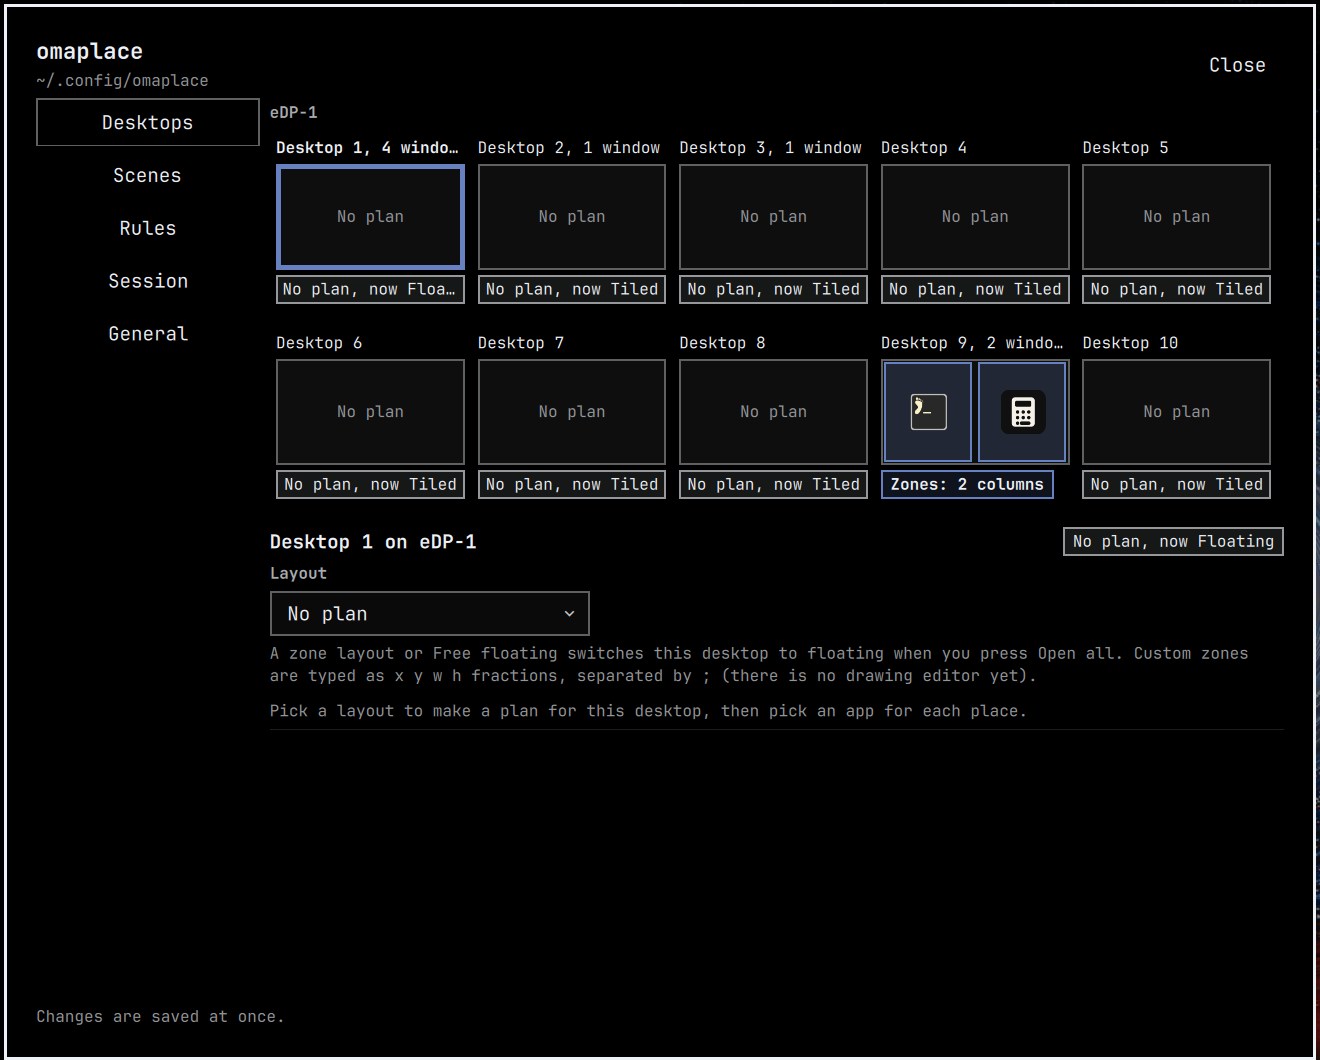
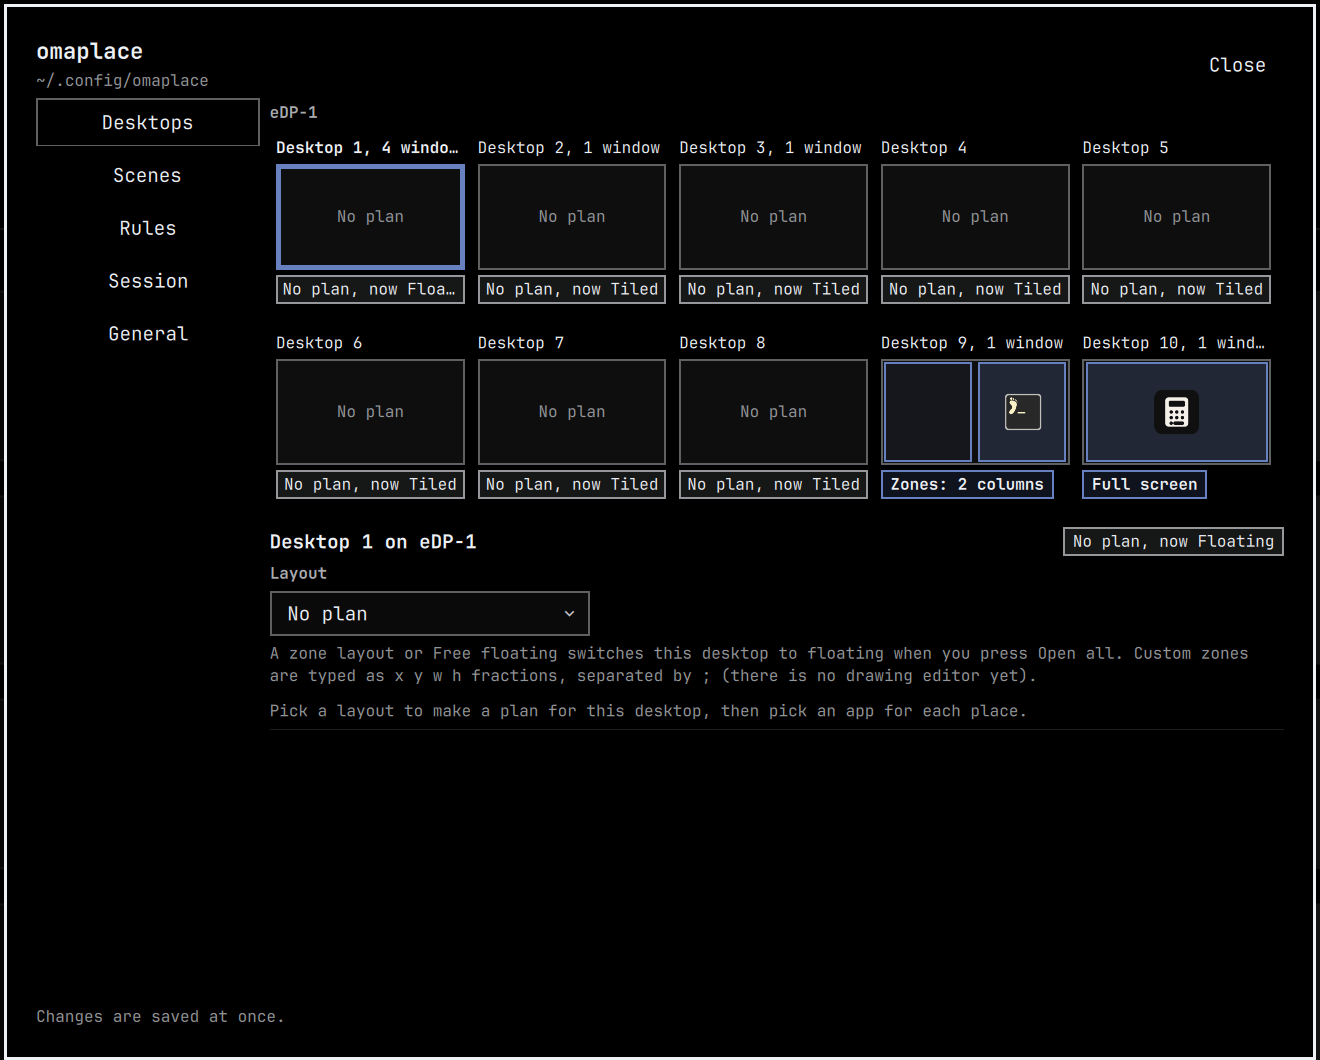
Live retest for M5: swap, new plan on move, full maximize pass

Changed region(s): [[0.6523, 0.3113, 0.9629, 0.467], [0.9939, 0.3425, 1.0, 0.9962], [0.9939, 0.2491, 1.0, 0.3113]]

diff --git a/docs/batch-log/live-M5.md b/docs/batch-log/live-M5.md
@@ -69,3 +69,17 @@ Review follow-ups (same day):
 - A tiled window moved to a desktop with no plan stays tiled in its new free plan (`floating = to.floating`).
 - Lua: a zone run never maximizes; a full run on an already maximized window unsets, places, then sets again
   (fake_hl expresses it, so no live checklist entry was needed).
+
+## Live retest after the fixes, 2026-11-21 (main at f948131)
+
+| Check | Result |
+|---|---|
+| Hand-made `scenes.toml` created after the service started | pass: picked up when the settings window opened (`omaplace list` alone does not rescan) |
+| Open all of the 2-column plan | pass: foot left, Omacalc right, both started |
+| Zone swap: Omacalc dragged onto foot's zone, focus to foot, "Update plan" | pass: plan zones swapped, foot re-placed into the right half, nothing started, no false zone report afterwards |
+| Desktop move out of the 2-window plan onto desktop 4 (no plan), "Update plan" | pass: Omacalc left the plan, new `free` plan on desktop 4 holding it at its rect |
+| Full plan, Open all | pass: fullscreen state 1, 1600x975 at 0,25, bar kept |
+| Desktops page with plans: "Zones: 2 columns" and "Full screen" badges and previews | pass (`docs/media/desktops-page.png`) |
+| Cleanup | same as the first run: hyprland.lua byte-identical, `_G.omaplace` gone, plugin disabled, test windows closed, desktop 9 tiled again, test files trashed, runtime folder removed, view on desktop 2 |
+
+Still open: a real mouse click on the notification button (S13), a second monitor (S7), open at login after a real login.

diff --git a/docs/goals.md b/docs/goals.md
@@ -82,7 +82,7 @@ Done when:
 
 Work packages: WP11, WP12 (12a Lua, 12b service), WP13. D22 decided (option 1; upstream PR omacom/omarchy#19671, fallback toggle until it ships).
 
-Status 2026-11-21: WP11 to WP13 built, reviewed and merged; 46 suites pass. Live 2026-11-21 (`batch-log/live-M5.md`): checks 1, 2, 3 pass; 4 sends the notification but the update was `not_possible` in both tried cases; 5 partial (full plan not maximized by Open all); 6 not tried. S11 pass, S12 fallback pass, S13 click not done.
+Status 2026-11-21: WP11 to WP13 built, reviewed and merged; 46 suites pass. Live 2026-11-21 (`batch-log/live-M5.md`): checks 1, 2, 3 pass; 4 sends the notification but the update was `not_possible` in both tried cases; 5 partial (full plan not maximized by Open all); 6 not tried. S11 pass, S12 fallback pass, S13 click not done. Retest after the D24 fixes: 4 and 5 pass (swap, new plan, full maximized). Open: 6 (needs a real login), S13 real click, second monitor.
 
 ## Not goals (for now)
 
